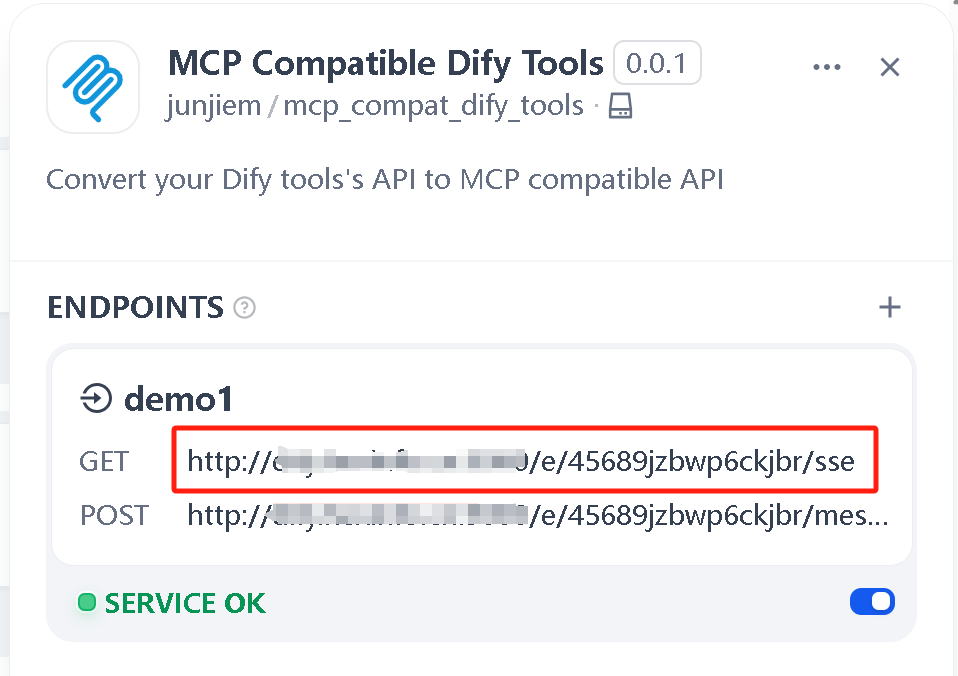
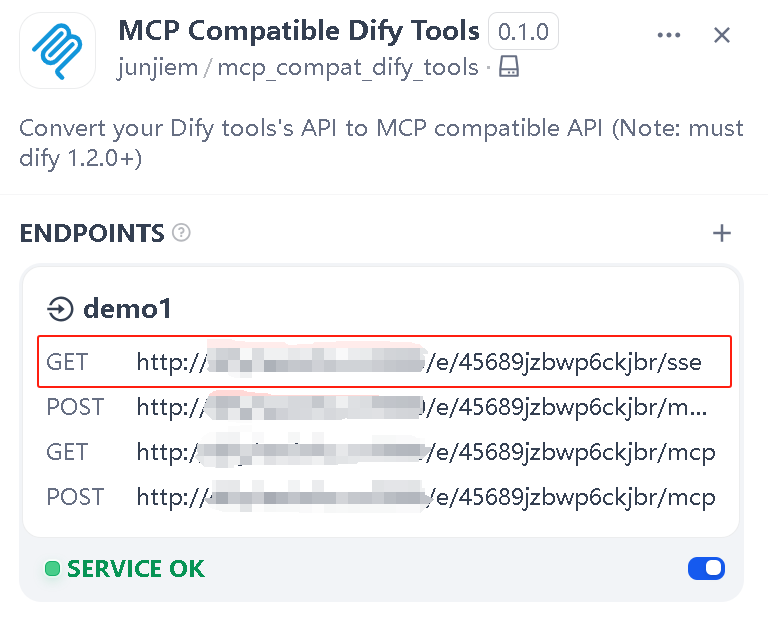
update README.md

diff --git a/README.md b/README.md
@@ -18,9 +18,10 @@ Reference to https://github.com/hjlarry/dify-plugin-mcp_server
 
 > **注:** 必须是 dify 1.2.0及以上版本。
 
-Convert your Dify tools's API to MCP compatible API
+Convert your Dify tools's API to MCP compatible API (Currently, two communication methods are supported: HTTP with SSE and Streamable HTTP)
 
-将您的 Dify 工具的 API 转换为 MCP 兼容 API
+将您的 Dify 工具的 API 转换为 MCP 兼容 API (目前已支持 HTTP with SSE 和 Streamable HTTP 两种通信方式)
+
 
 #### 1. Add a endpoint and add tool list. 添加API端点并添加工具列表。
 
@@ -33,23 +34,32 @@ Convert your Dify tools's API to MCP compatible API
 ![save_endpoint](./_assets/save_endpoint.png)
 
 > **Note:**
-> 
-> 1. Because the Dify platform does not transmit the LLM description of the tool, it is recommended to manually set the tool description when adding the tool. 
-> (Currently, the tool label is automatically used as the tool description if no tool description is set.)
-> 
-> 2. The modification of the tool list for existing endpoint will take effect only after the endpoint are disabled and then enabled.
+>
+> 1. The modification of the tool list for existing endpoint will take effect only after the endpoint are disabled and then enabled.
 > 
 
 
 > **注：**
-> 
-> 1、由于 Dify 平台没有将工具的LLM描述传递，所以在添加工具时建议手动设置工具描述。（目前对于未设置工具描述的自动将工具标签作为工具描述。）
-> 
-> 2、对已有 API 端点进行工具列表的修改需要停用再启用 API 端点后才会生效。
+>
+> 1. 对已有 API 端点进行工具列表的修改需要停用再启用 API 端点后才会生效。
 > 
 
 
-#### 2. Copy the endpoint url to your MCP client, like `Cherry Studio` 复制端点url到您的MCP客户端，如 `Cherry Studio`
+#### 2. Copy the endpoint url to your MCP client, like `Cherry Studio`  复制端点url到您的MCP客户端，如 `Cherry Studio`
+
+![mcp_urls](./_assets/mcp_urls.png)
+
+
+##### **Option 1:** Use the newest `Streamable HTTP` transport (**Recommended**)  使用最新的`Streamable HTTP`传输方式（**推荐**）
+
+![mcp_streamable_http_url](./_assets/mcp_streamable_http_url.png)
+
+![cherry_studio_mcp_streamable_http](./_assets/cherry_studio_mcp_streamable_http.png)
+
+**OK!**
+
+
+##### **Option 2:** Use the legacy `HTTP with SSE` transport  使用过时的`HTTP with SSE`传输方式
 
 ![mcp_sse_url](./_assets/mcp_sse_url.png)
 
